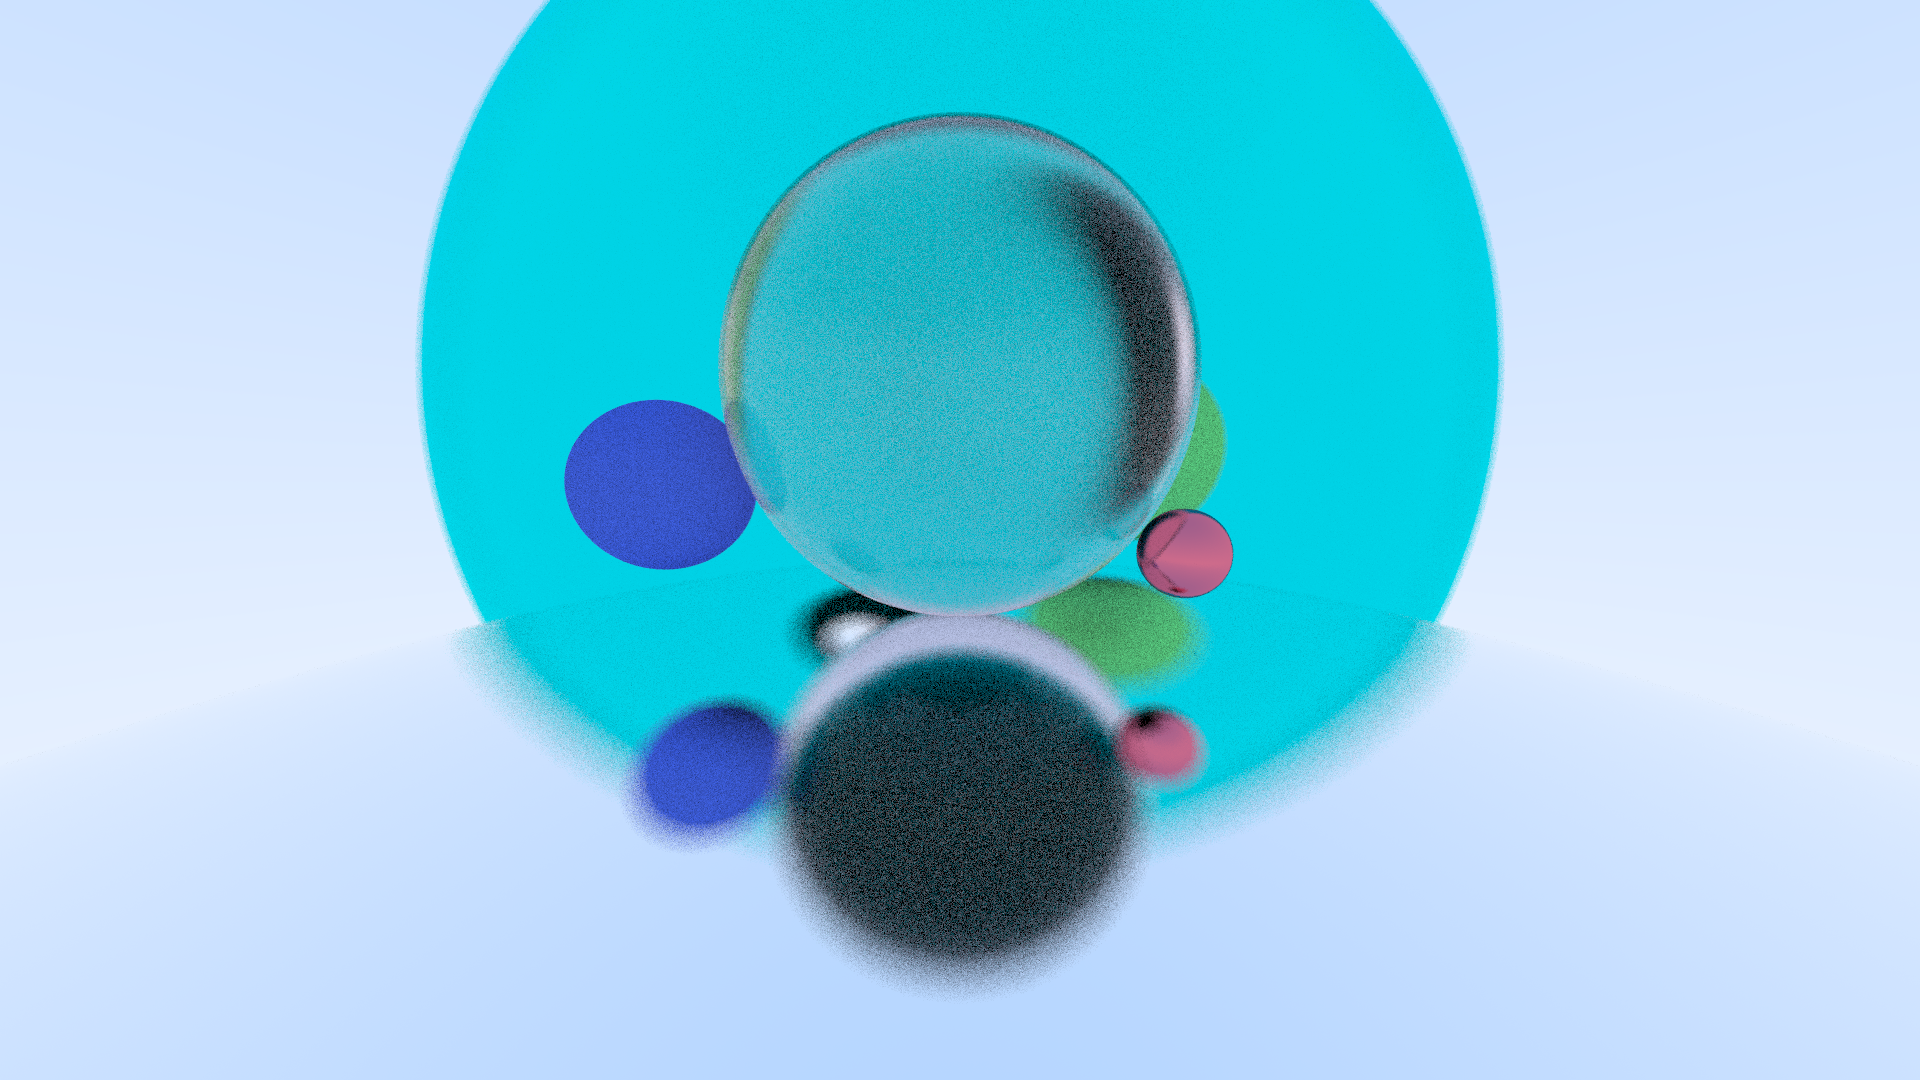
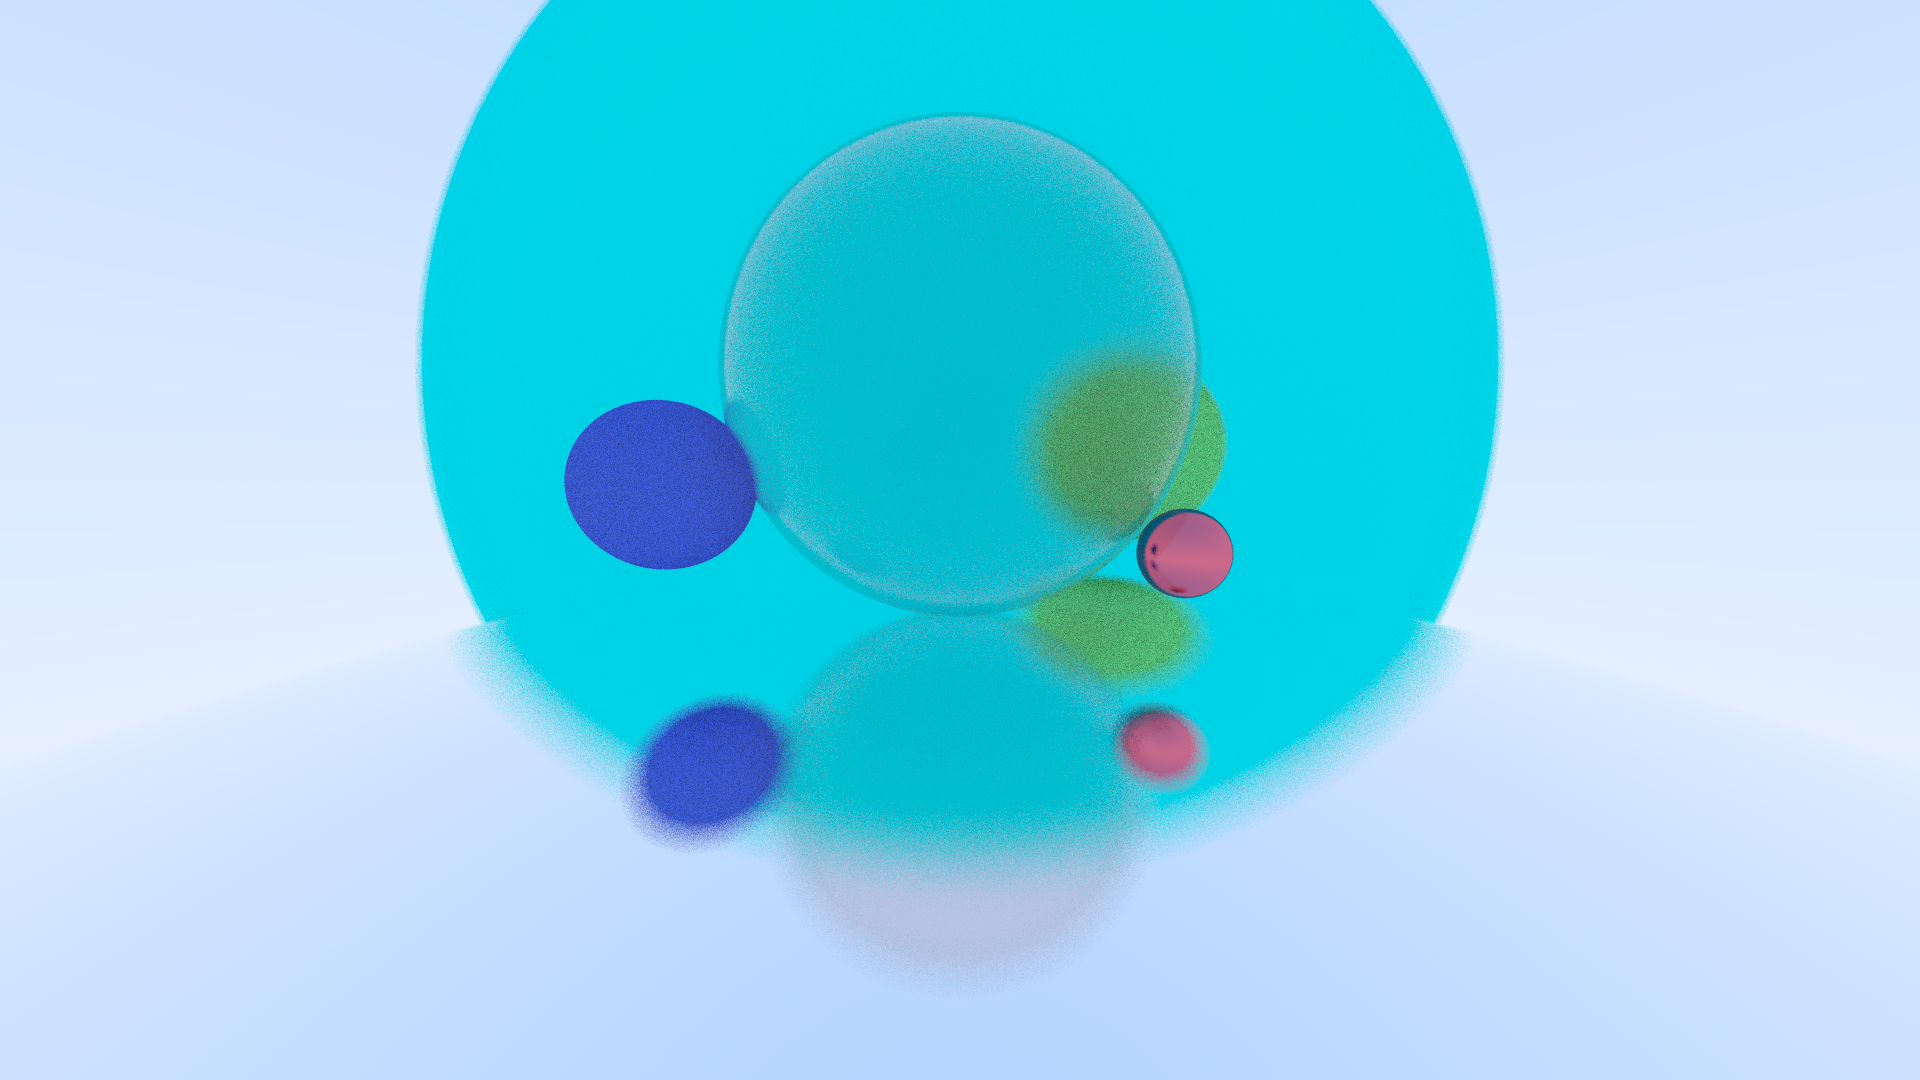
debug the aabb and update readme

Changed region(s): [[0.25, 0.0917, 0.75, 0.9167]]

diff --git a/EasyRayTracing/src/main.cpp b/EasyRayTracing/src/main.cpp
@@ -3,11 +3,14 @@
 static int width = 192 * 10;
 static int height = 108 * 10;
 static int sample_per_pixel = 20;
-static int max_depth = 5;
+static int max_depth = 10;
 
 glm::vec3 shading(Ray ray, HitRecord& rec, int depth, BVHnode& bvh)
 {
-    if (depth >= max_depth) return glm::vec3{ 0.0f };
+    if (depth >= max_depth)
+    {
+        return glm::vec3{ 0.0f };
+    }
 
     if (bvh.Hit(ray, {0.000001f, Utility::FLOAT_MAX}, rec))  // third para use to privent detect themselves (shadow ance)
     {
@@ -21,12 +24,14 @@ glm::vec3 shading(Ray ray, HitRecord& rec, int depth, BVHnode& bvh)
         }
         else
         {
+            rec.reset();
             return glm::vec3{ 0.0f };
         }
     }
     else
     {
         float a = ray.GetDir().y / 2.0f + 0.5f;
+        rec.reset();
         return (1.0f - a) * glm::vec3(1.0f, 1.0f, 1.0f) + a * glm::vec3(0.5f, 0.7f, 1.0f); // ambient light
     }
 }
@@ -41,22 +46,26 @@ int main() {
 
     ObjectTable objtable;
 
-    Camera camera({ 0.0f, 3.5f, 0.0f }, { 0.0f, 3.4f, -1.0f }, {0.0f, 1.0f, 0.0f}, width, v_offset / h_offset, 90, 12.0f, 0.005f);
+    Camera camera({ 0.0f, 3.5f, 0.0f }, { 0.0f, 3.4f, -1.0f }, {0.0f, 1.0f, 0.0f}, (float)width, v_offset / h_offset, 90, 12.0f, 0.005f);
 
     // Materials
     std::shared_ptr<Lambertian> diffuse_blue = std::make_shared<Lambertian>(glm::vec3{ 0.1f, 0.2f, 0.9f });
     std::shared_ptr<Lambertian> diffuse_green = std::make_shared<Lambertian>(glm::vec3{ 0.2f, 0.9f, 0.3f });
     std::shared_ptr<Metal> metal_red = std::make_shared<Metal>(glm::vec3{ 0.8f, 0.2f, 0.3f });
     std::shared_ptr<Metal> metal_pure = std::make_shared<Metal>(glm::vec3{ 1.0f, 1.0f, 1.0f }, 0.05f);
-    std::shared_ptr<Dielectric> glass = std::make_shared<Dielectric>(glm::vec3{ 1.0f, 0.9f, 0.9f }, 1.5f);
+    std::shared_ptr<Dielectric> glass = std::make_shared<Dielectric>(glm::vec3{ 1.0f, 1.0f, 1.0f }, 1.0f);
     std::shared_ptr<Dielectric> glass_green = std::make_shared<Dielectric>(glm::vec3{ 0.0f, 0.9f, 0.9f }, 1.5f);
 
     // Objects
-    objtable.Add(std::make_shared<Sphere>(glass, glm::vec3(0.0f, 6.0f, -15.0f), 6.0f));
+    std::shared_ptr<Sphere> s = std::make_shared<Sphere>(glass, glm::vec3(0.0f, 6.0f, -15.0f), 6.0f);
+    AABB box = AABB();
+    s->SetBB(box);
+    objtable.Add(s);
+
     objtable.Add(std::make_shared<Sphere>(glass_green, glm::vec3(0.0f, 10.0f, -100.0f), 70.0f));
 
     objtable.Add(std::make_shared<Sphere>(diffuse_green, glm::vec3(9.0f, 5.5f, -30.0f), 5.0f));
-    objtable.Add(std::make_shared<Sphere>(metal_pure, glm::vec3(-6.0f, 7.5f, -35.0f), 5.0f));
+    // objtable.Add(std::make_shared<Sphere>(metal_pure, glm::vec3(-6.0f, 7.5f, -35.0f), 5.0f)); this one looks wired !
 
     objtable.Add(std::make_shared<Sphere>(metal_red, glm::vec3(5.0f, 2.0f, -12.0f), 1.0f));
     objtable.Add(std::make_shared<Sphere>(diffuse_blue, glm::vec3(-7.0f, 3.5f, -13.0f), 2.0f));

diff --git a/EasyRayTracing/src/Objects.cpp b/EasyRayTracing/src/Objects.cpp
@@ -4,14 +4,16 @@
 Sphere::Sphere(const glm::vec3& origin, float radius)
 	:m_Origin(origin), m_Radius(radius)
 {
-    glm::vec3 rad_vec{ radius };
+    glm::vec3 rad_vec{ radius + 5.0f };
+    //m_BoundingBox = AABB();
     m_BoundingBox = AABB(origin - rad_vec, origin + rad_vec);
 }
 
 Sphere::Sphere(std::shared_ptr<Material> material, const glm::vec3& origin, float radius)
     :m_Origin(origin), m_Radius(radius), m_Material(material)
 {
-    glm::vec3 rad_vec{ radius };
+    glm::vec3 rad_vec{ radius + 5.0f };
+    // m_BoundingBox = AABB();
     m_BoundingBox = AABB(origin - rad_vec, origin + rad_vec);
 }
 
@@ -19,7 +21,7 @@ bool Sphere::Hit(const Ray& ray, Interval ray_t, HitRecord& rec) const
 {
     bool Hit = false;
     glm::vec3 o_minus = ray.GetOrigin() - m_Origin;
-    float c = glm::dot(o_minus, o_minus) - pow(m_Radius, 2);
+    float c = glm::dot(o_minus, o_minus) - powf(m_Radius, 2);
     float b = 2 * glm::dot(o_minus, ray.GetDir());
     float delta = b * b - 4 * c;
     if (delta == 0)

diff --git a/EasyRayTracing/src/AABB.cpp b/EasyRayTracing/src/AABB.cpp
@@ -1,18 +1,13 @@
 #include "AABB.h"
 
 Interval::Interval()
-	:min(Utility::FLOAT_MIN), max(Utility::FLOAT_MAX)
+	:min(-1000.0f), max(1000.0f)
 {}
 
 Interval::Interval(float num1, float num2)
 {
 	min = Utility::Min(num1, num2);
 	max = Utility::Max(num1, num2);
-}
-
-Interval::Interval(const glm::vec2& vec2)
-{
-	Interval(vec2.x, vec2.y);
 }
 
 Interval::Interval(const Interval& interval1, const Interval& interval2)
@@ -54,7 +49,7 @@ bool AABB::Hit(const Ray & ray, Interval ray_t) const
 		if (t0 > ray_t.min) ray_t.min = t0;
 		if (t1 < ray_t.max) ray_t.max = t1;
 
-		if (ray_t.min > ray_t.max) return false;
+		if (ray_t.min >= ray_t.max) return false;
 	}
 	return true;
 }

diff --git a/EasyRayTracing/src/BVHnode.cpp b/EasyRayTracing/src/BVHnode.cpp
@@ -4,11 +4,6 @@ BVHnode::BVHnode(const std::vector<std::shared_ptr<Object>>& src_objs, size_t st
 {
 	auto objects = src_objs; // copy
 	size_t objects_num = end - start;
-	if (objects_num == 0)
-	{
-		left = nullptr;
-		right = nullptr;
-	}
 
 	int axis = Utility::RandomInt() % 3;
 	auto comparator = (axis == 0) ? box_x_compare
@@ -47,6 +42,7 @@ bool BVHnode::Hit(const Ray& ray, Interval ray_t, HitRecord& rec) const
 	if (!m_BoundingBox.Hit(ray, ray_t)) return false;
 
 	bool hit_left = left->Hit(ray, ray_t, rec);
+	ray_t.max = hit_left ? rec.t : ray_t.max;
 	bool hit_right = right->Hit(ray, ray_t, rec);
 
 	return hit_left || hit_right;

diff --git a/EasyRayTracing/src/Objects.h b/EasyRayTracing/src/Objects.h
@@ -43,6 +43,8 @@ public:
 	virtual bool Hit(const Ray& ray, Interval ray_t, HitRecord& rec) const override;
 	virtual AABB GetBB() const override { return m_BoundingBox; }
 
+	void SetBB(AABB& box) { m_BoundingBox = box; } // dangerous function
+
 private:
 	glm::vec3 m_Origin;
 	std::shared_ptr<Material> m_Material;

diff --git a/EasyRayTracing/src/AABB.h b/EasyRayTracing/src/AABB.h
@@ -6,7 +6,6 @@ class Interval {
 public:
 	Interval();
 	Interval(float num1, float num2);
-	Interval(const glm::vec2& vec2);
 	Interval(const Interval& interval1, const Interval& interval2);
 
 	float GetSize() const { return max - min; };

diff --git a/README.md b/README.md
@@ -22,6 +22,12 @@ The function has complished:
 
 Coming:
 
+- [x] AABB
+
+Axis-Aligned Bounding Boxes, This is a tree structure used to optimize on the intersection of rays and objects. However, when there are only few things inside the scene and they are overlaping on each other, AABB may lessen the efficiency... Anyway, we have that now!
+
+*Also, something wired happens when it applys on the Dielectric Objects, it seems too many refraction and rays are bumping there. I have to expand the bounding box of these objects to make it looks normal. Anyway, I will fix that someday.*
+
 - [ ] Emitting Objects
 
 - [ ] Triangles
